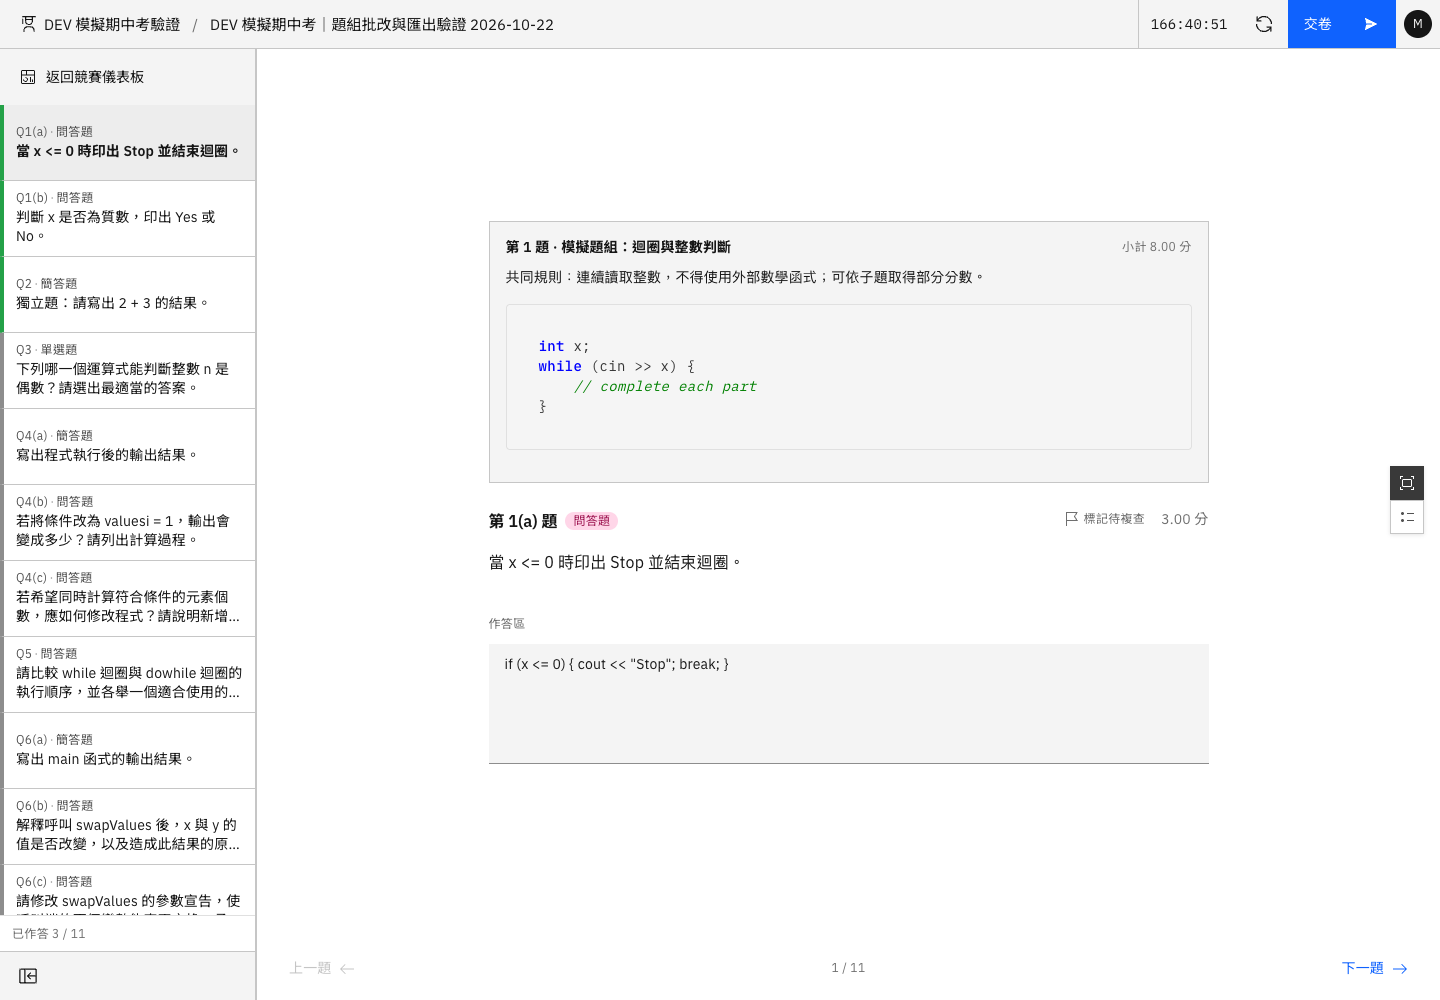
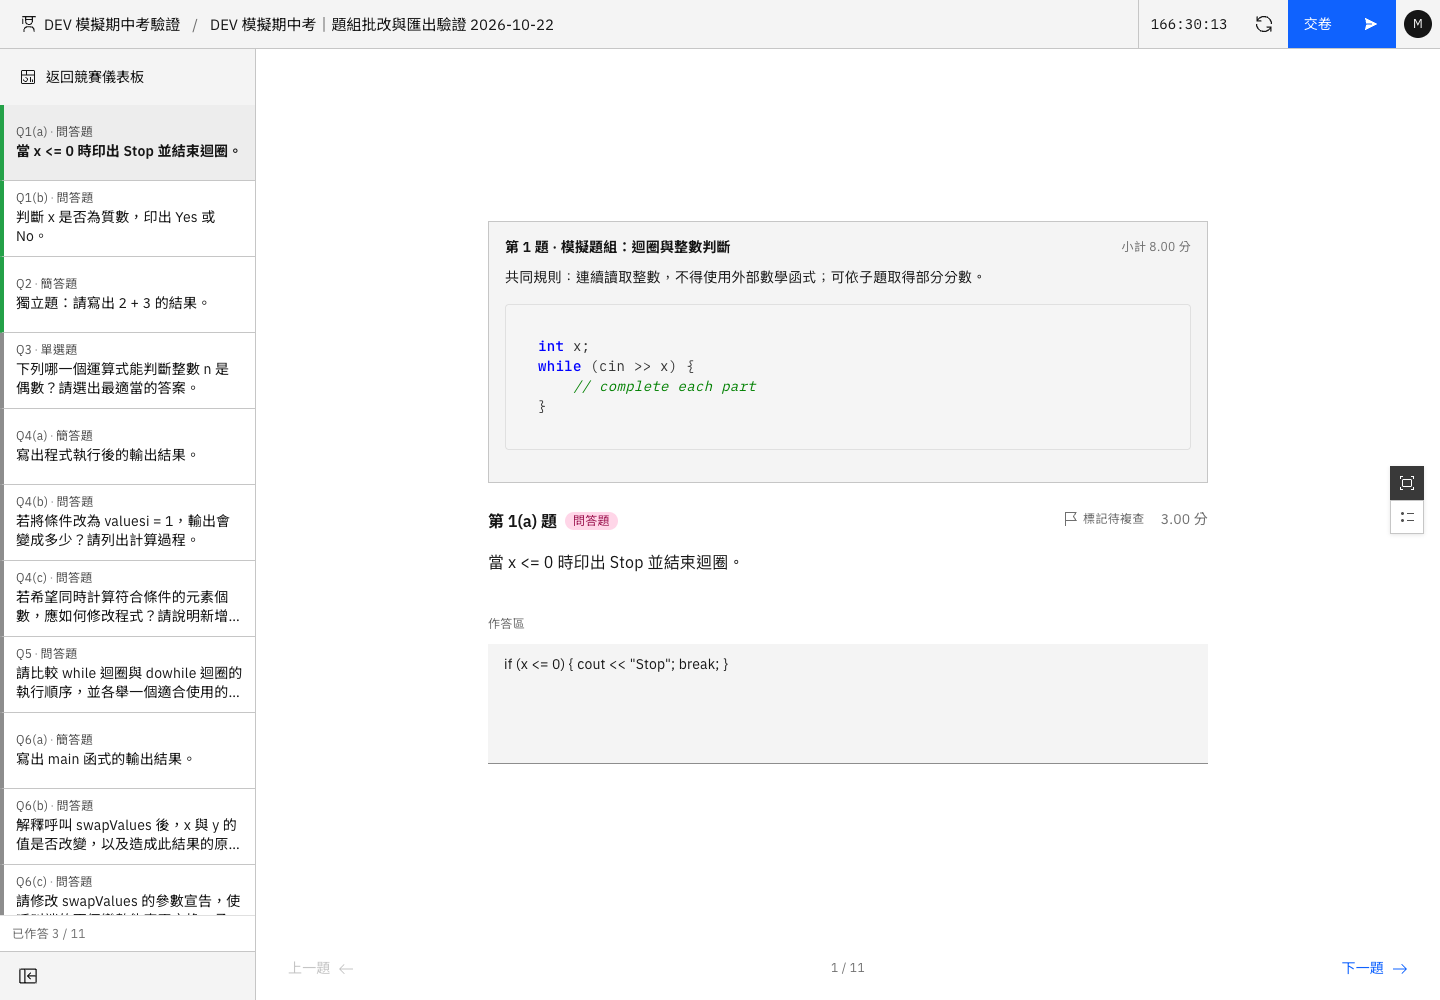
fix: avoid doubling the student sidebar divider

diff --git a/frontend/src/features/contest/components/exam/PaperExamCore.tsx b/frontend/src/features/contest/components/exam/PaperExamCore.tsx
@@ -269,7 +269,7 @@ export const PaperExamCore: React.FC<PaperExamCoreProps> = ({
   );
 
   return (
-    <div className={styles.container}>
+    <div className={styles.container} data-external-navigator={externalNavigator}>
       {showToolbar && (
         <div className={`${styles.toolbar} ${toolbarVisible ? "" : styles.toolbarHidden}`}>
           <div className={styles.toolbarLeft}>{toolbarLeft}</div>

diff --git a/frontend/src/features/contest/screens/paperExam/PaperExamAnswering.module.scss b/frontend/src/features/contest/screens/paperExam/PaperExamAnswering.module.scss
@@ -89,3 +89,11 @@
   flex: 1;
   min-width: 0;
 }
+
+// The app sidebar already owns the divider in the runtime shell.
+.container[data-external-navigator="true"] {
+  .singleContent,
+  .allContent {
+    border-left: 0;
+  }
+}
